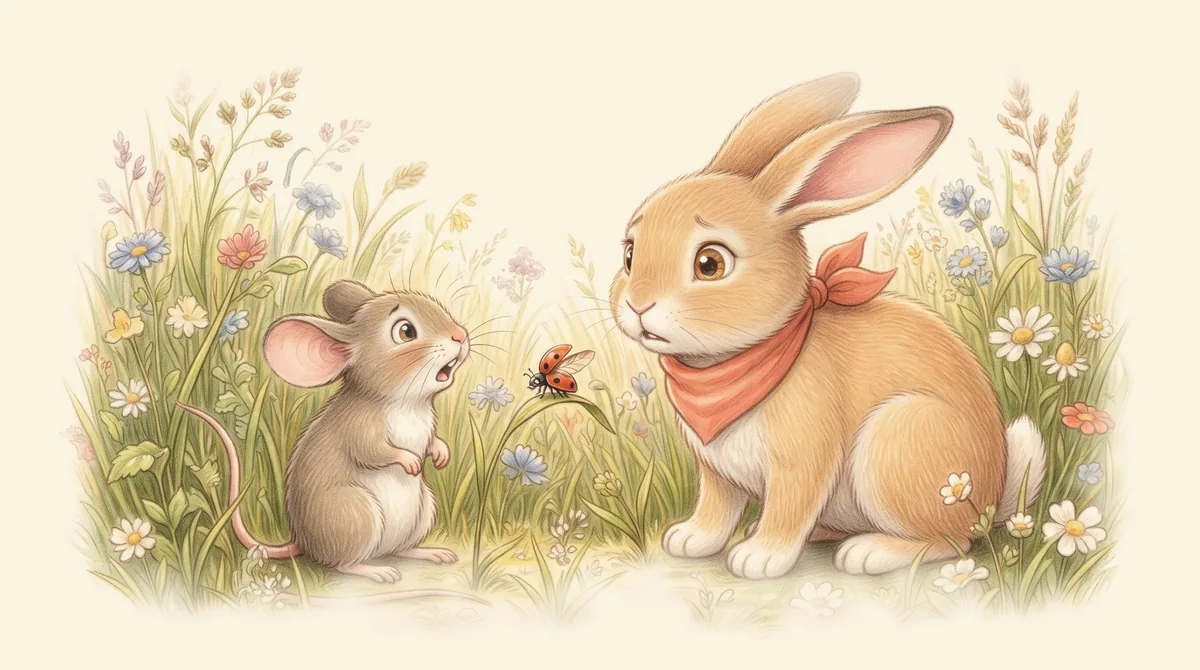
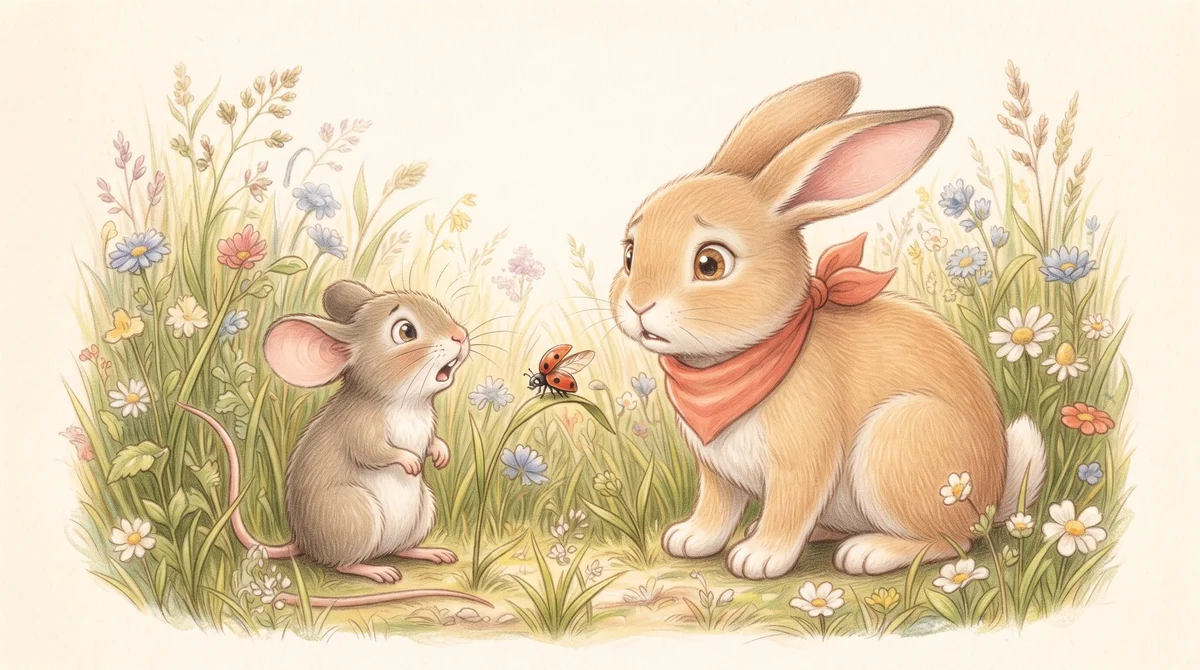
Benny 2: show pictures whole and framed like Benny 1

diff --git a/index.html b/index.html
@@ -218,7 +218,7 @@ const STORIES = [
   {id:"benny", title:"Benny the Bunny’s Bold Leap", occasion:"Story time", theme:"Courage and friendship", minutes:4, shelf:"main", colour:"#cfe3c4", series:"Book 1", ready:true,
    pics:"benny-", cover:"benny-cover.webp", coverAlt:"Benny the bunny leaps across lily pads on a pond, with Max the mouse behind him.",
    dedication:["To my daughter, who shows true bravery every day!","Author and proud mom of a dyslexic child."]},
-  {id:"benny-2", title:"Benny and the Secret Meadow", occasion:"Story time", theme:"Kindness and courage", minutes:4, shelf:"main", colour:"#cfe3c4", series:"Book 2", ready:true, blend:true,
+  {id:"benny-2", title:"Benny and the Secret Meadow", occasion:"Story time", theme:"Kindness and courage", minutes:4, shelf:"main", colour:"#cfe3c4", series:"Book 2", ready:true,
    pics:"benny2-", cover:"benny2-cover.webp", coverAlt:"Barnaby the badger peeps round an open wooden gate. Benny the bunny and Max the mouse look into a meadow full of flowers and blackberries. Lila the ladybird sits on a leaf on the gatepost."},
   {id:"eri", title:"Eri and the Magic Book", occasion:"Adventure story in chapters", theme:"Reading together", minutes:12, shelf:"main", colour:"#f3dca0", ready:true,
    pics:"eri-", cover:"eri-cover.webp", coverAlt:"Eri and Marie stand by a little red door in a library bookshelf. Golden light spills out, and a grey cat in gold glasses peeps round the door. Marie points with an excited smile, and Eri smiles as she hugs a red book.",
@@ -565,7 +565,7 @@ benny: [
  "Benny sits proudly on the far shore with cheering frogs all around him. Max dances beside him.",
  "Night time. Benny and Max sleep curled up in a cosy burrow. The moon and stars shine outside."
 ],
-/* Benny and the Secret Meadow. The 15 final pictures of 30 Oct 2026, blended into the cream page. */
+/* Benny and the Secret Meadow. The 15 final pictures of 30 Oct 2026, shown whole and framed like Benny 1 (no fade, rule of 2 Nov 2026). */
 "max-mia": ["Max and Mia stand outside their red-brick house under autumn trees. Mum and Dad stand behind them, and Fluffy the little white dog jumps up happily.", "In the park, Max and Mia leap and throw leaves high into the air beside a big leaf pile. Dad kneels in the pile, Mum holds Fluffy on his lead, and a red squirrel watches.", "On a rainy day the family sits on the rug by the fire playing a board game, holding mugs of hot chocolate. A blanket fort stands behind them, and Fluffy naps on a cushion.", "In a golden forest, Max carries a small basket and Mia crouches to look at mushrooms in the moss. Fluffy sniffs the leaves, and a squirrel holds an acorn on a mossy log.", "The family paints pumpkins at the kitchen table on old newspaper. Max paints stripes, Mia paints spots, Dad paints a smiling sun and Mum paints little leaves. Fluffy watches.", "Max and Mia run across a golden field with their kites flying high. Dad and Mum spin around with their arms out, and Fluffy chases the kite ribbons.", "In the apple orchard, Dad lifts Mia up to the top branch while Max picks a red apple. Mum holds a basket full of apples, and Fluffy trots beside her.", "In the kitchen, Max rolls out pastry, Mia sprinkles sugar over the pie, and Mum and Dad help with the apples. Fluffy looks up, hoping for a crumb.", "Max and Mia stand in the living room wearing crowns made of autumn leaves. Mum and Dad smile, and Fluffy barks happily.", "Four pinecone owls with big paper eyes sit on the windowsill. Max and Mia lean in to look at them, with Mum behind them and Fluffy holding a pinecone.", "The family sits at the table drawing their autumn memories with crayons and coloured pencils: a tree, a kite and a pie. Fluffy sits beside Max.", "The family eats warm apple pie together at the table. Steam rises from the pie, and Fluffy peeps over the edge of the table.", "At night, the family sits together on the sofa by the glowing fire. Mia leans on Mum, Max yawns, and stars twinkle outside the window. Fluffy sleeps on the rug."],
 "benny-2": [
  "Benny the bunny hops through a sunny green meadow at sunrise. Five strawberries sit on a leaf in the grass.",
